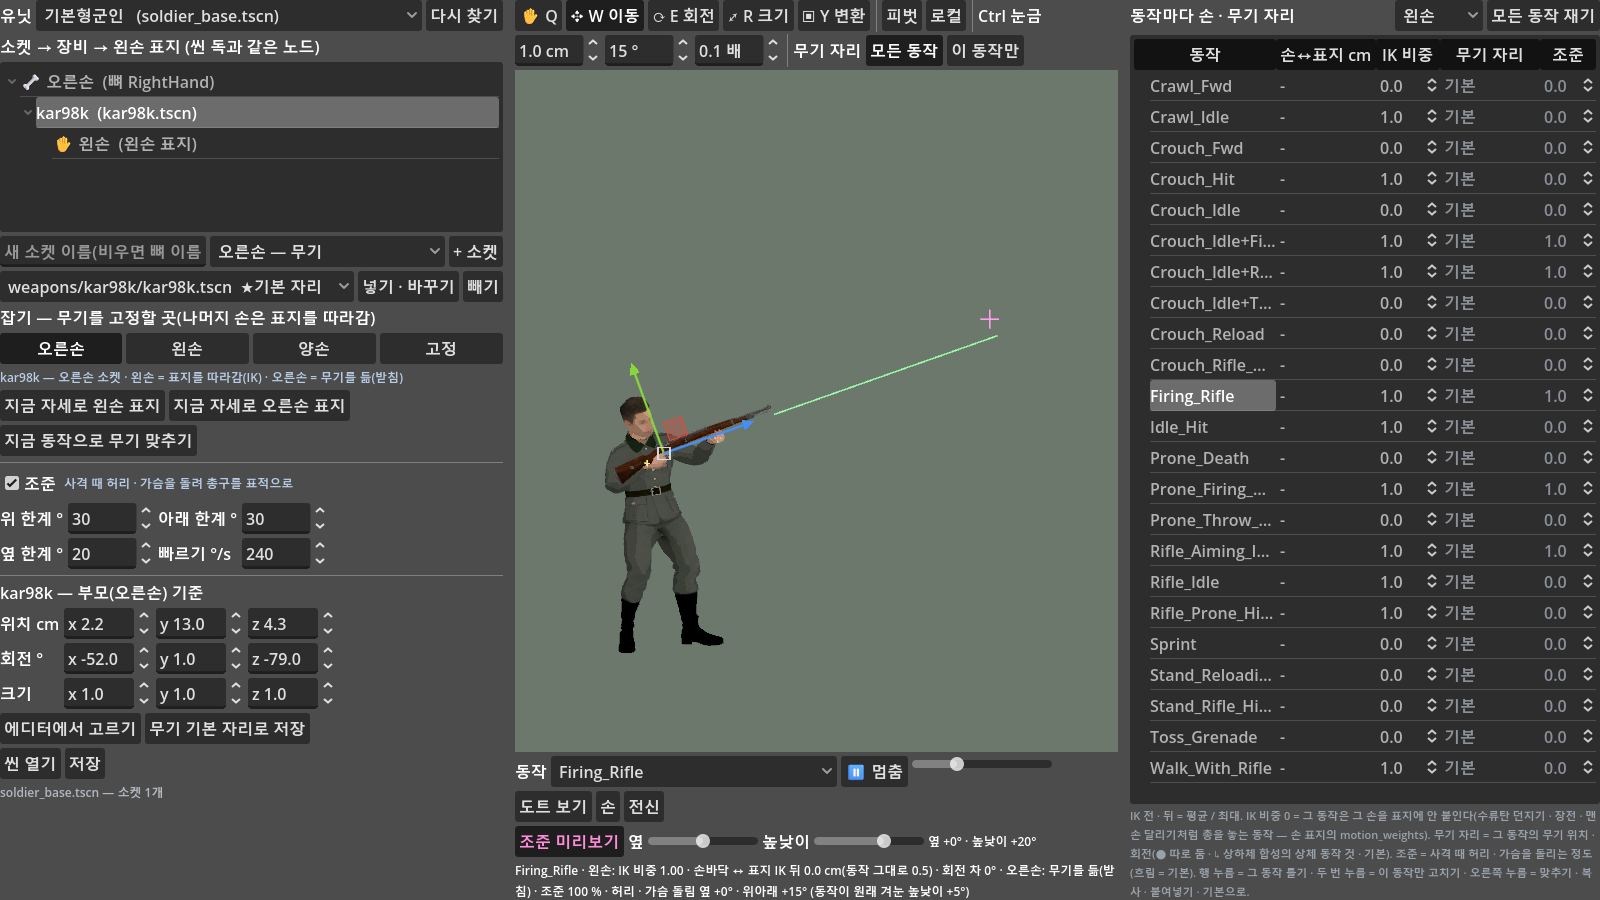
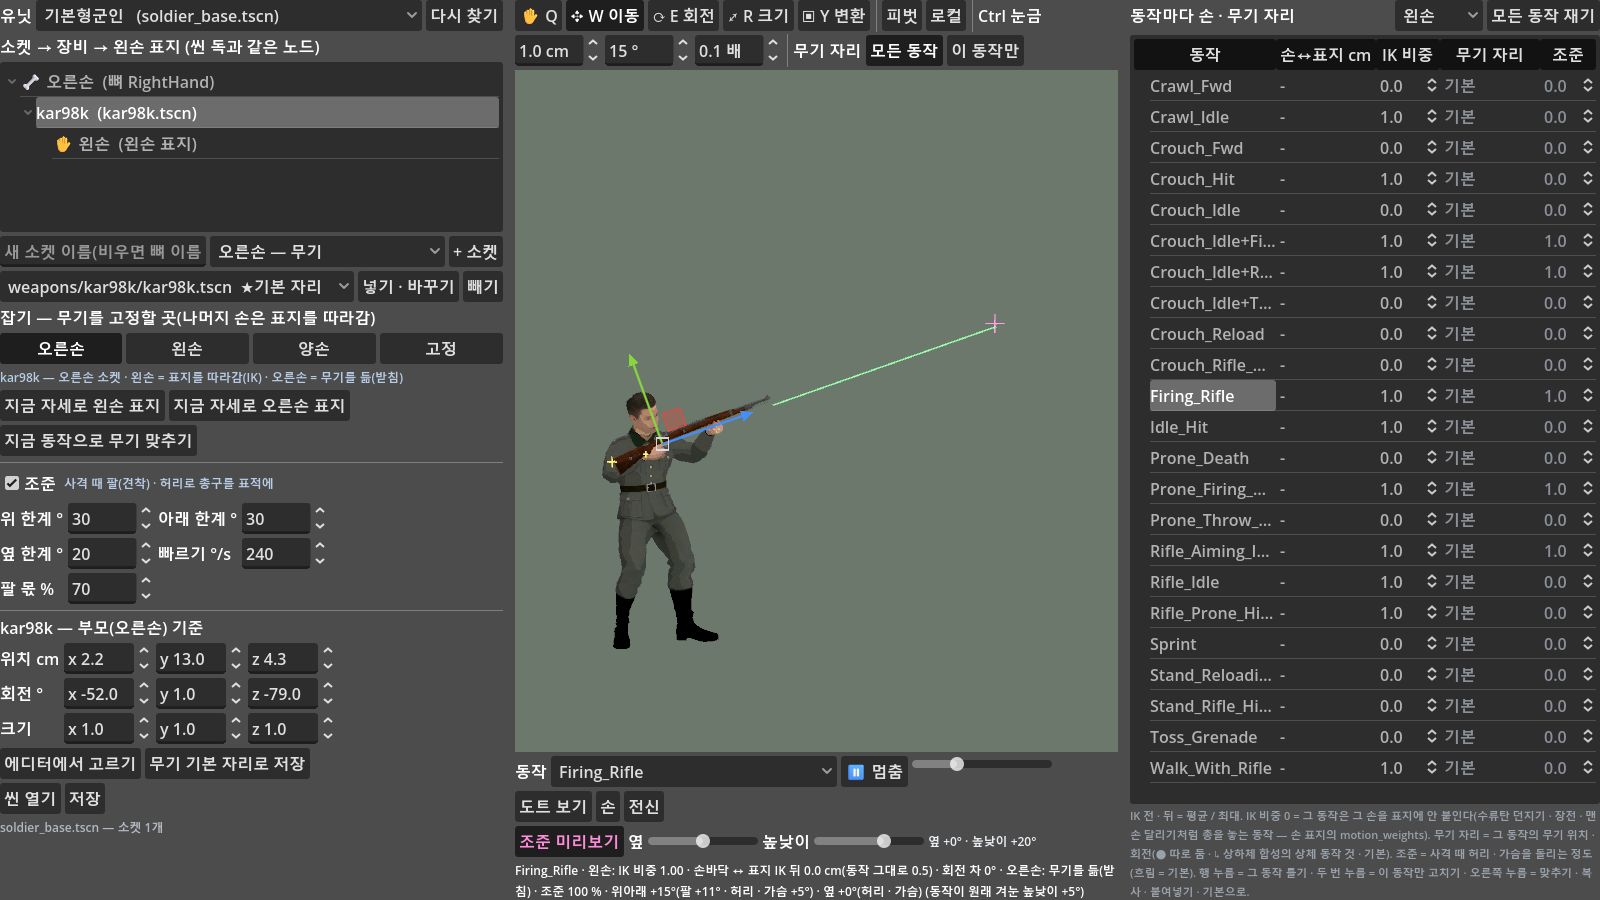
기록: 조준 IK 팔 · 견착(10-21 저녁) — 3D_전환 조준 절 · 그림 다시(허리만 / 팔 70 % / 팔 100 % 비교 · ② 화면) · 02 U44 · 01 4-35 · 인수인계 검사 목록 · 애드온 README · 작업내역

diff --git a/Docs/게임설계/3D_전환.md b/Docs/게임설계/3D_전환.md
@@ -119,7 +119,7 @@
 
 (동작마다 왼쪽 = 옛 방식(asset.json 그립 + 동작마다 다시 맞춤) · 오른쪽 = 소켓 + 왼손 IK. Stand_Reloading 은 IK 0 — 장전 동작이 AR 탄창 교체라 kar98k 와 안 맞음)
 
-### 조준 IK — 사격 때 허리 · 가슴이 표적으로 (10-21)
+### 조준 IK — 사격 때 팔(견착) · 허리 · 가슴으로 총구를 표적에 (10-21)
 
 사용자: "사격을 할 때 적의 위치 · 적을 바라보는 벡터 기준으로 허리가 살짝 굽거나 해야 될 것 같아 — 총구가 적을 바라봐야 되니까. 이런 건 IK 기술의 파생인가?"
 → 네(조준 IK · 에임 오프셋). 동작을 더 받지 않고 **동작 위에 덧씌운다**: 그 동작의 총구 방향을 표적 쪽으로 한계 안에서 돌리고, 그 돌림을 허리 · 가슴 뼈 셋(Spine 30 % · Chest 35 % · UpperChest 35 %)에 나눈다.
@@ -127,6 +127,7 @@
 
 | 정한 것 | 왜 |
 |---|---|
+| **높낮이는 팔이 주로(팔 몫 기본 70 %) — 견착점(개머리판 끝) 축으로 총을 들고 내리고 두 손이 IK 로 따라감**, 나머지 30 % · 옆은 허리 · 가슴(Spine 30 % · Chest 35 % · UpperChest 35 %) · 머리는 팔 몫의 60 % 를 따라 숙이고 듦 | 사용자(10-21 저녁): "허리가 들리는 것도 있지만 진짜 조준을 할 때 팔 부분이 영향이 제일 많이 가잖아 — 양팔로 인한 견착 위치에 따라". 허리만이면 위 25° 에 몸이 뒤로 20° 젖혀졌다 → 팔 70 % 면 가슴 6° · 견착점 2.3 cm 이동, 100 % 면 가슴 0° · 견착점 제자리. 손 소켓 무기 = 든 손을 그 팔 두 마디 IK(`DR_Aim<손>ArmIK`)로 돌린 자리에, 두 손 사이 받침대 = 받침대를 견착점 축으로 돌림. 견착점 = 무기 아래 `견착` 노드, 없으면 −Z 쪽 메시 끝 |
 | **기준 = 그 동작의 총구 방향 평균**(동작 그대로 8 시점 — 동작 파일에서 바로 계산 · 캐시) | 매 장면 총구를 표적에 붙이면 동작의 반동 · 흔들림이 지워진다. 평균에서 돌리면 흔들림 그대로(0.49° → 0.48°) |
 | **위아래 = 총구 높낮이가 총구에서 본 표적 높낮이와 같게**(정확히) | 높은 벽 위 · 참호 아래 · 엎드린 적 — 화면에서 바로 보이는 것 |
 | **옆 = 몸 정면에서 표적이 벗어난 만큼만** | Firing_Rifle 은 원래 총구가 몸 정면에서 **24° 옆**(높낮이 +5°) — 3D 로 표적에 정확히 맞추면 몸이 24° 더 돌아 화면이 정한 3/4 모습(`face_turn_deg` 35°)이 깨진다. 화면(BattleView3D)이 표적을 3/4 만큼 돌려 넘기므로 같은 줄 정면의 적 = 옆 0°, 앞뒤 줄이 다르면 그만큼(12 m 앞 · 깊이 0.33 차 → 21°) |
@@ -137,21 +138,25 @@
 
 | ② 장비 탭 | 하는 일 |
 |---|---|
-| 왼쪽 `☑ 조준` + `위 한계 ° · 아래 한계 ° · 옆 한계 ° · 빠르기 °/s` | 유닛 루트 칸(인스펙터 "조준" 묶음과 같은 값). 끄면 표 칸 · 숫자 칸이 잠긴다. 되돌리기 한 칸 |
-| 가운데 `[조준 미리보기]` · `옆` · `높낮이` 끌기 | 미리보기 병사가 그 각을 겨눈다(단추 분홍) — 표적 = 분홍 십자, 총구 선 = 초록(표적으로) · 주황(한계에서 멈춤). 켜면 몸 · 표적이 다 보이게 카메라를 맞춘다. 정보 줄 `조준 100 % · 허리 · 가슴 돌림 옆 +0° · 위아래 +15°` · 비중 0 동작이면 안내 |
+| 왼쪽 `☑ 조준` + `위 한계 ° · 아래 한계 ° · 옆 한계 ° · 빠르기 °/s · 팔 몫 %` | 유닛 루트 칸(인스펙터 "조준" 묶음과 같은 값). 끄면 표 칸 · 숫자 칸이 잠긴다. 되돌리기 한 칸 |
+| 가운데 `[조준 미리보기]` · `옆` · `높낮이` 끌기 | 미리보기 병사가 그 각을 겨눈다(단추 분홍) — 표적 = 분홍 십자, 총구 선 = 초록(표적으로) · 주황(한계에서 멈춤), 견착점 = 노란 십자. 켜면 몸 · 표적이 다 보이게 카메라를 맞춘다. 꺼진 채 끌어도 켜진다. 정보 줄 `조준 100 % · 위아래 +15°(팔 +11° · 허리 · 가슴 +5°) · 옆 +0°` |
+| 조준 비중 0 인 동작에서 켤 때 | 조준하는 동작(Firing_Rifle 우선)으로 바꾸고 상태 줄에 알림 · 미리보기 중 비중 0 동작을 고르면 막대 바로 옆에 주황 `⚠ 이 동작은 조준 0 %`. (10-21 사용자 "토글 누르고 막 끌었는데 변화 없는데?" — 사용자 동작 표에서 `서기+조준` 을 지워 처음 트는 Rifle_Aiming_Idle 이 0 이었다) |
 | 오른쪽 동작 표 `조준` 칸 | 그 동작의 조준 비중(흐림 = 기본 · 파랑 = 합성의 상체 것). 기본과 같은 값으로 고치면 따로 값을 지운다 · 오른쪽 누름 `조준 미리보기(이 동작)` · `조준 비중 기본으로` |
 
 ![조준 IK](img/3D_조준_IK.png)
 
-(Firing_Rifle 30 % 시점. 위 = 3D 옆모습 · 아래 = 게임 화면처럼(3/4 · 도트). 왼쪽부터 동작 그대로(총구 +4°) · 아래 −20° · 수평 · 위 +25° · 위 +60°(30° 에서 멈춤))
+(Firing_Rifle 30 % 시점. 위 = 3D 옆모습(노랑 = 견착점) · 아래 = 게임 화면처럼(3/4 · 도트). 왼쪽부터 동작 그대로(총구 +4°) · 위 +25° 허리만(팔 0 % — 몸이 뒤로 20° 젖혀짐) ·
+위 +25° 팔 70 %(기본 — 팔 +14° · 허리 · 가슴 +6°) · 아래 −20° 팔 70 % · 위 +25° 팔 100 %(가슴 그대로 · 견착점 제자리))
 
 ![② 장비 탭 조준 미리보기](img/3D_장비_조준.png)
 
-(왼쪽 조준 칸 · 가운데 조준 미리보기(높낮이 +20° — 분홍 십자 · 초록 총구 선) · 오른쪽 표 맨 끝 `조준` 칸. 1600 × 900)
+(왼쪽 조준 칸(팔 몫 % 포함) · 가운데 조준 미리보기(높낮이 +20° — 분홍 십자 · 초록 총구 선 · 노란 견착점) · 오른쪽 표 맨 끝 `조준` 칸. 1600 × 900)
 
-- 측정(`tools/aim_check_cli.gd` 29항목): 정면 · 위 25° · 아래 20° · 옆 ±12° — 총구 높낮이 ↔ 표적 0.1° 안 · 옆 돌림 = 표적 옆 각 · 한 바퀴 평균 총구 높낮이 25.0°(표적 25.5°, 조준 전 5.1°) · 위 25° 조준 중 왼손 IK 뒤 0.00 cm · 앉아 사격(합성) · 엎드려 사격 · 캐릭터를 돌리고 키를 바꿔도 같음 · 양손 받침대도(두 손 IK 가 조준 전보다 나빠지지 않음 — 사용자 양손 씬 사본).
+- 측정(`tools/aim_check_cli.gd` 37항목): 정면 · 위 25° · 아래 20° · 옆 ±12° — 총구 높낮이 ↔ 표적 0.1° 안 · 옆 돌림 = 표적 옆 각 · 한 바퀴 평균 실제 총구 높낮이 25.0°(표적 25.4°, 조준 전 5.1°) · 위 25° 조준 중 왼손 IK 뒤 0.00 cm · 앉아 사격(합성) · 엎드려 사격 · 캐릭터를 돌리고 키를 바꿔도 같음 · 양손 받침대도(두 손 IK 가 조준 전보다 나빠지지 않음 · 받침대를 견착점 축으로 돌려 실제 총구 24.1° — 사용자 양손 씬 사본).
+  팔 · 견착(위 25°): 팔 몫 0 / 70 / 100 % → 가슴 뼈 돌림 20.0 / 6.0 / 0.0° · 견착점 이동 7.5 / 2.3 / 0.0 cm · 실제 총구 24.2° · 왼손 0.00 cm · 총구 끝 36 cm 올라감 · 거두면 팔 IK 꺼짐.
 - 게임(`view3d_smoke` 20 초 더 · 화면을 줄여 전장 전체): 사격 · 조준 동작 병사 · 프레임 2,084 중 99 % 에 표적 · 1 초마다 잰 34번 겨눌 방향과 최대 0.00° · 위아래 돌림 최대 6.6°(같은 높이 적이면 몇 도뿐 — 높이 차가 클 때 크게 보인다) · 34번 중 8번 옆 한계(앞뒤 줄 차이가 큰 가까운 적).
-- 코드: `runtime/dr_character_3d.gd` "조준 IK" 절(`set_aim_target` · `set_aim_angles` · `aim_weight_for` · `aim_report` · `_solve_aim` · `_aim_ref` 동작 파일 FK) · `runtime/dr_aim_solver_3d.gd`(수정자) · `game/view/battle_view_3d.gd` `_aim` · `ui/equip_page.gd` "조준 IK" 절.
+- 코드: `runtime/dr_character_3d.gd` "조준 IK" 절(`set_aim_target` · `set_aim_angles` · `aim_weight_for` · `aim_report` · `_solve_aim` · `aim_muzzle_at` · `_aim_ref` 동작 파일 FK · 팔 IK `_make_aim` · 받침대 팔 몫 `_solve_mounts` · `shoulder_world`) · `runtime/dr_aim_solver_3d.gd`(수정자) · `game/view/battle_view_3d.gd` `_aim` · `ui/equip_page.gd` "조준 IK" 절.
+- 수정자 차례(손 소켓 무기): `DR_AimSolver` → `DR_AimRightElbow` · `DR_AimRightArmIK` · `DR_AimRightHandRot`(조준 팔 — 팔 몫이 없으면 꺼짐) → `DR_LeftRef` …(왼손 표지 IK — 돌린 오른손을 따라감).
 
 ### ③ 복장 탭 (10-16)
 
@@ -308,6 +313,7 @@ python pipeline/check_editor.py --headless --sandbox="$P" --no-sync
 10-16 밤(② 기즈모 뒤): 장비 탭 검사 [7] 기즈모 20항목 · 에디터 안 검사 24항목(기즈모 끌기 → 열린 씬 · 탭 창 Ctrl+Z / Ctrl+Y · 단축키) · 나머지 창 없는 검사 전부 통과.
 10-16 저녁 2(도트 지저분함 · 머리 비어 보임 고친 뒤): 탭 검사 4개 · 3D 화면 · 동작 표 · 전투 시뮬 · 에디터 안 검사 25항목 전부 통과(창 없이, 커밋된 유닛 씬). 전후 그림은 위 표 아래.
 10-19(동작별 무기 자리 · 안전 밉 지도): 장비 탭 검사 [9] 15항목 · 탭 검사 4개 · 3D 화면(왼손 IK 붙임 ↔ 놓음 406번 — 예전과 같음) · 동작 표 · 전투 시뮬 · 에디터 안 검사 26항목(이 동작만 끌기 → 메타 · Ctrl+Z / Ctrl+Y) 전부 통과(창 없이, 커밋된 트리로 새로 만든 사본).
+10-21 저녁(팔 · 견착 조준 · 미리보기 변화 없음 고침): 조준 검사 37항목 · 장비 탭 [10] 20항목(전체 97) · 탭 4개 · 3D 화면 · 동작 표 · 전투 시뮬 · 안건 F 검사 · 에디터 안 27항목 전부 통과.
 10-21(조준 IK): 조준 검사 29항목 · 장비 탭 검사 [10] 16항목(전체 93) · 탭 검사 4개 · 3D 화면(왼손 IK 406번 그대로 + 조준 99 % · 겨눌 방향과 0.00°) · 동작 표 · 전투 시뮬 · 에디터 안 검사 27항목(조준 미리보기는 사본만 · 조준 비중 · 위 한계 → 열린 씬 루트 → Ctrl+Z / Ctrl+Y) 전부 통과(창 없이, 커밋된 트리로 새로 만든 사본 — 새 사본의 첫 에디터 실행은 셰이더 첫 컴파일 오류 줄 2개로 FAIL, 두 번째부터 OK — 10-19 와 같은 현상).
 
 ## 남은 것

diff --git a/Docs/인수인계/README.md b/Docs/인수인계/README.md
@@ -110,12 +110,12 @@ $P = "C:\<경로>\SideProject"
 | ⑪ `composite_check_cli` | `상하체 합성 검사 전부 통과` — 길이·반복 규칙 3종 · 뼈 자세 72개(다리·힙 = 하체 애니 / 팔·몸통 = 상체 애니) 어긋남 0 · 경고 2종 · 다시 만들기 · 라이브러리 안 샘 · 굽기·rig.json | ✓ (09-21) |
 | ⑫ `pixel_check_cli` | `도트 격자 고정 검사 전부 통과` — `puppet_pixel.tscn` 구조 · 3배에서 3×3 칸 섞임 0/16,811(대조 1,106/1,703) · 전 프레임이 뷰포트 안 · extra_margin · 끄면 삭제 | ✓ (09-21) |
 | ⑬ `puppet_set_check_cli` | `퍼펫 세트 검사 전부 통과` — 세트 2개를 이름만으로 재생 · 발 자리(서기·앉기 모두 원점 y + 1px) · 조준 −16.7° 정확 · 한계 30° · 멈춘 애니 위 300프레임 각도 변화 0 · 끄면 복귀 · 좌우 반전 · [5] 장비(모든 세트 · z = 파트 + 5 · 교체 · reload) | ✓ (09-21) |
-| ⑭ `equip_page_smoke_cli` | 마지막 줄 `EQUIP PAGE SMOKE OK` — 소켓 나무(오른손 → kar98k → 왼손 표지) · 미리보기(도트 재질 · 왼팔 IK) · 무기 기본 자리 · 동작마다 왼 손바닥 ↔ 표지(소총 IK 뒤 1 cm 안) · 자식 유닛(mp40 · 머리 소켓 + 대용 헬멧 · 저장 · 다시 읽기) · 게임 길(숨긴 부모 무기 지움 · 소켓이 뼈를 따라감 · MANUAL) · [6] 뼈대 길이 든 사본도 소켓이 뼈를 따라감(02 U38) · [7] 유니티식 기즈모(단축키 · 이동 · 눈금 · 취소 · 회전 고리 · 중심 모드 · 크기 · 눌러서 고르기, 02 U39) · [8] 잡기 — 오른손 · 왼손 · 양손 · 고정(무기 자리 그대로 · 따라가는 손 IK · 양손 걷기 · 보간 · 고정 제자리 · 게임 길, 02 U40) · [9] 동작별 무기 자리(이 동작만 끌기 → 그 동작만 · 다른 동작 기본 · 합성 = 상체 것 · 표 칸 · 숫자 칸 · 모든 동작 끌기 = 기본만 · 게임 길 섞기 · 맞추기 · 복사 · 붙여넣기 · 기본으로 · asset.json, 02 U43) · [10] 조준 IK(조준 칸 = 유닛 값 · 미리보기 높낮이 · 옆 → 허리 · 가슴 · 표적 십자 · 총구 선 · 한계 · 한계 칸 · 비중 0 안내 · 표 조준 칸 기본 · 따로 · 합성 = 상체 · 절반 · 기본으로 · 끔 잠김, 02 U44). (예전 ⑭ `equip_window_smoke` = 2D 장비 굽기 창 검사, 10-16 지움) | ✓ (10-21) |
+| ⑭ `equip_page_smoke_cli` | 마지막 줄 `EQUIP PAGE SMOKE OK` — 소켓 나무(오른손 → kar98k → 왼손 표지) · 미리보기(도트 재질 · 왼팔 IK) · 무기 기본 자리 · 동작마다 왼 손바닥 ↔ 표지(소총 IK 뒤 1 cm 안) · 자식 유닛(mp40 · 머리 소켓 + 대용 헬멧 · 저장 · 다시 읽기) · 게임 길(숨긴 부모 무기 지움 · 소켓이 뼈를 따라감 · MANUAL) · [6] 뼈대 길이 든 사본도 소켓이 뼈를 따라감(02 U38) · [7] 유니티식 기즈모(단축키 · 이동 · 눈금 · 취소 · 회전 고리 · 중심 모드 · 크기 · 눌러서 고르기, 02 U39) · [8] 잡기 — 오른손 · 왼손 · 양손 · 고정(무기 자리 그대로 · 따라가는 손 IK · 양손 걷기 · 보간 · 고정 제자리 · 게임 길, 02 U40) · [9] 동작별 무기 자리(이 동작만 끌기 → 그 동작만 · 다른 동작 기본 · 합성 = 상체 것 · 표 칸 · 숫자 칸 · 모든 동작 끌기 = 기본만 · 게임 길 섞기 · 맞추기 · 복사 · 붙여넣기 · 기본으로 · asset.json, 02 U43) · [10] 조준 IK(조준 칸 = 유닛 값 · 미리보기 높낮이 · 옆 → 허리 · 가슴 · 표적 십자 · 총구 선 · 한계 · 한계 칸 · 비중 0 안내 · 표 조준 칸 기본 · 따로 · 합성 = 상체 · 절반 · 기본으로 · 끔 잠김 · 비중 0 동작에서 켜면 Firing_Rifle 로 · 꺼진 채 끌면 켜짐 · 팔 몫 칸 · 견착점 십자, 02 U44). (예전 ⑭ `equip_window_smoke` = 2D 장비 굽기 창 검사, 10-16 지움) | ✓ (10-21) |
 | ⑮ `outfit_page_smoke_cli` | 마지막 줄 `OUTFIT PAGE SMOKE OK`(36항목) — 페이지 · 군복 불러오기 · 슬롯 바꾸고 저장/다시 읽기 · 칠하기 → 슬롯 메시 다시 자르기 · 미리보기 캐릭터. 건드린 파일은 끝에 원래대로(md5). "정수는 정수 그대로" 는 원래 파일의 첫 crop 값으로 본다(10-19 — 사용자 로컬 값 104 를 박아 두어 커밋된 트리 사본에서 실패하던 것). (예전 ⑮ `outfit_window_smoke` · ⑯ `outfit_bind_check` · ⑰ `outfit_keys_check` = 2D 복장 굽기 창 검사, 10-16 지움) | ✓ (10-19) |
 | ⑲ `hub_smoke_cli` | `Dot Rigger 창(탭) 검사 전부 통과` — 탭 3 · 처음 = ① 유닛 · 페이지는 누를 때 만듦 · ① 기본형 군인 미리보기 · ③ 군복 슬롯 메시 · 숨은 탭 뷰포트 멈춤 · Ctrl+1/2/3 · 탭을 바꿔도 작업 유지. (10-16 공통 설정 줄 뺌) | ✓ (10-16, 창 없이) |
 | ⑳ `check_editor.py` | `EDITOR CHECK OK`(27항목) — ① 고른 유닛 씬이 열리고 그 루트를 고침 · 탭 창 Ctrl+Z 따라옴 · ② 기즈모 끌기 → 열린 씬 · 탭 창 Ctrl+Z / Ctrl+Y · 단축키 · 잡기 양손 → Ctrl+Z 원래 소켓(주인 그대로) → Ctrl+Y · 동작별 자리(이 동작만 끌기 → 열린 씬 장비 메타 · 기본 자리 그대로 · 저장에 담김 → Ctrl+Z 빠짐 → Ctrl+Y) · 조준(미리보기 사본만 돎 · 조준 비중 · 위 한계 → 열린 씬 루트 → Ctrl+Z / Ctrl+Y, 10-21) · ① ② 미리보기 소켓이 손뼈를 따라감 · ② 위치 칸 → 열린 씬 · 편집 중인 씬의 왼손 IK 목표가 따라감 · 소켓 더하기/되돌리기 · 저장 때 소켓의 뼈대 길이 씬 파일에 안 남음 · 닫고 다시 열면 같은 탭 · 에디터 오류 0(창 모드면 창 자리 검사도). **명령줄 검사가 못 보는 에디터 전용 길**(02 U18). ⚠ Documents/1941 샌드박스는 10-02 무렵 사본이라 `game/` 이 없다 — 저장소 통째 사본에 `--sandbox=` | ✓ (10-21, 창 없이 · 통째 사본 — 새 사본의 첫 실행은 셰이더 첫 컴파일 오류 줄로 FAIL, 두 번째부터 OK) |
 | ㉑ `view3d_smoke` | 마지막 줄 `VIEW3D SMOKE OK` — 병사 24명 · 무기 = 오른손 소켓 · 왼팔 IK · 멈춘 병사 0 % · 동작 따라 왼손 IK 붙임 ↔ 놓음 · 풀 돌려쓰기 · 복장 보기 4가지 · 조준 IK(화면을 0.25 배로 줄여 20 초 — 사격 · 조준 병사에 표적 99 % · 1 초마다 잰 수정자 결과 겨눌 방향과 0.00°) | ✓ (10-21) |
-| ㉒ `aim_check_cli` | 마지막 줄 `AIM CHECK OK`(29항목) — 조준 수정자 맨 앞 · kar98k 총구 · 기본 조준 비중(동작 표 사격 · 조준 상태) · 동작별 · 합성 = 상체 · 정면 / 위 / 아래 / 옆 표적 높낮이 0.1° 안 · 각으로(② 미리보기) · 한계 · 한 바퀴 평균 총구 · 흔들림 그대로 · 비중 0 · 끔 · 거둠 · 왼손 IK · 빠르기 · 섞기 · 돌림 · 배율 · 합성 · 엎드림 · 양손 받침대(사본 `_twohand_test.tscn` 이 있으면) · 고정 받침대는 안 함. 02 U44 | ✓ (10-21) |
+| ㉒ `aim_check_cli` | 마지막 줄 `AIM CHECK OK`(37항목) — 조준 수정자 맨 앞 · kar98k 총구 · 기본 조준 비중(동작 표 사격 · 조준 상태) · 동작별 · 합성 = 상체 · 정면 / 위 / 아래 / 옆 표적 높낮이 0.1° 안 · 각으로(② 미리보기) · 한계 · 한 바퀴 평균 총구 · 흔들림 그대로 · 비중 0 · 끔 · 거둠 · 왼손 IK · 빠르기 · 섞기 · 돌림 · 배율 · 합성 · 엎드림 · 양손 받침대(사본 `_twohand_test.tscn` 이 있으면) · 고정 받침대는 안 함 · [9] 팔 · 견착(팔 몫 0 / 70 / 100 % 실제 총구 높낮이 · 가슴 덜 숙임 · 100 % 견착점 제자리 · 거두면 팔 IK 꺼짐 · 양손 받침대 팔 몫). 02 U44 | ✓ (10-21) |
 | ㉓ `equip_smoke` | 마지막 줄 `EQUIP SMOKE OK` — 수정자 쌓기 · 좌석 효율(최소 + (1 − 최소) × 숙련도) · 빈 장전 좌석(사수 혼자 장전 ×2) · 사수 사망 → 재착석 · 버려진 장비를 아군 · 적이 다시 운용 · 전장 MG42 팀(시드 1941 · 7 · 2024). `sim_smoke` 는 안건 F 전후 10 초마다 찍는 줄까지 같음. 02 U45 | ✓ (10-21) |
 | ⑱ `check_character.py` | `CHECK OK` + `pipeline/check/<이름>_sheet.png` 를 **눈으로** 본다(동작마다 · `--before <이전 glb>` 면 전 · 후 나란히). ★10-15 부터 **사람 몸으로만 시험**(UAL 마네킹 = 레거시 — 마네킹 줄 없앰, `ui_smoke_cli` 시험 모델도 human_base, `retarget_check_cli` 는 UAL 변환 검사라 돌리지 않음) | ✓ (10-15 human_base) |
 | `bake_cli` → `preview_cli` | `결과: { "ok": true ... }` → 구운 씬이 트랙 60개로 재생 | ✓ |

diff --git a/Docs/인수인계/02_버그와_교훈.md b/Docs/인수인계/02_버그와_교훈.md
@@ -444,6 +444,10 @@
 - **사용자: "조준 미리보기 토글을 누르고 옆 · 높낮이를 막 했는데 변화 없는데?"** — 사용자 동작 표는 `서기+조준` 줄을 지워(10-19) ② 탭이 처음 트는 Rifle_Aiming_Idle 의 조준 비중이 0.
   안내는 아래 정보 줄 끝에만 있어 안 읽혔다. 검사는 커밋 상태 동작 표(Rifle_Aiming_Idle = 서기+조준 → 1)로만 돌려 못 봄. → 켤 때 비중 0 이면 조준하는 동작(Firing_Rifle 우선)으로 바꾸고 상태 줄에 알림 ·
   꺼진 채 끌면 켬 · 막대 바로 옆 주황 경고. **UI 확인은 사용자 로컬 데이터(동작 표 · 씬)로도 한 번** — 사본에 사용자 파일을 복사해 재현(커밋하지 않음).
+- **사용자: "허리가 들리는 것도 있지만 진짜 조준을 할 때 팔 부분이 영향이 제일 많이 가잖아 — 양팔로 인한 견착 위치에 따라"** → 높낮이의 `aim_arm_share`(기본 70 %)는
+  **견착점(개머리판 끝) 축으로 총을 돌려** 팔이 맡는다: 손 소켓 무기 = 든 손 자리를 돌려 그 팔 두 마디 IK(조준 수정자 바로 뒤 — 다른 손 표지 IK 가 돌린 손을 따라가게),
+  두 손 사이 받침대 = 받침대 자리를 돌림(받침대 풀이 안에서). 나머지와 옆은 허리 · 가슴, 머리는 팔 몫의 60 %. 위 25° 에 가슴 뼈 20° → 6°.
+  표적 높낮이 반복 계산의 총구 자리도 팔 돌림까지 넣어야 맞다(`aim_muzzle_at` — 첫 판은 몸만 돌린 자리로 재 1 ~ 2° 어긋남). 견착점 기준도 동작 FK 평균에 같이.
 - `ImmediateMesh` 에는 `surface_get_array_len` 이 없다(`surface_get_arrays(0)[ARRAY_VERTEX]`). 새로 만든 사본의 **첫 에디터 실행**은 셰이더 첫 컴파일 오류 줄
   (`custom_samplers.has(...)`, smooth_pixel 의 텍스처 인자 함수) 2개로 EDITOR CHECK FAIL — 두 번째부터 OK(10-19 와 같음, 코드 탓 아님).
 

diff --git a/Docs/인수인계/01_설계와_구조.md b/Docs/인수인계/01_설계와_구조.md
@@ -249,6 +249,8 @@ Bone2D(파트)            position / rotation 애니
   표적 쪽으로 한계 안에서 돌려 Spine · Chest · UpperChest 에 나눔. 위아래 = 총구에서 본 표적 높낮이 그대로, 옆 = 몸 정면에서 표적이 벗어난 만큼만(3/4 화면 유지). 칸 = 유닛 루트 `조준` 묶음
   (`aim_enabled` · 위 · 아래 · 옆 한계 · 빠르기 · `aim_motion_weights` — 없는 동작은 동작 표 "사격" · "조준" 상태면 1). 게임 = `BattleView3D._aim`(Ballistics.aim_point, 3/4 만큼 돌려 넘김),
   ② 탭 = `조준 미리보기`(`set_aim_angles`) · 왼쪽 조준 칸 · 동작 표 `조준` 칸. 02 U44.
+  팔 · 견착(10-21 저녁): 높낮이의 `aim_arm_share`(70 %)는 견착점(개머리판 끝 · `견착` 노드) 축으로 총을 돌려 팔이 — 손 소켓 = 조준 수정자 바로 뒤의 조준 팔 IK(`DR_Aim<손>ArmIK`),
+  두 손 사이 받침대 = `_solve_mounts` 가 받침대를 돌림. 나머지 · 옆은 허리 · 가슴, 머리는 팔 몫의 60 %.
 
 ### 4-34. 창 하나 + 탭 페이지 + 공통 설정 (10-06)
 - 사용자: "창이 여러 개니 껐다 켜는 게 너무 힘들다 — 탭 페이지로" · "한 곳에서 설정한 모델을 다른 에디터도 보게". → `ui/hub_window.gd`(`DRHubWindow`, Window) 하나에 탭 줄 + 공통 설정 줄 + 페이지.
